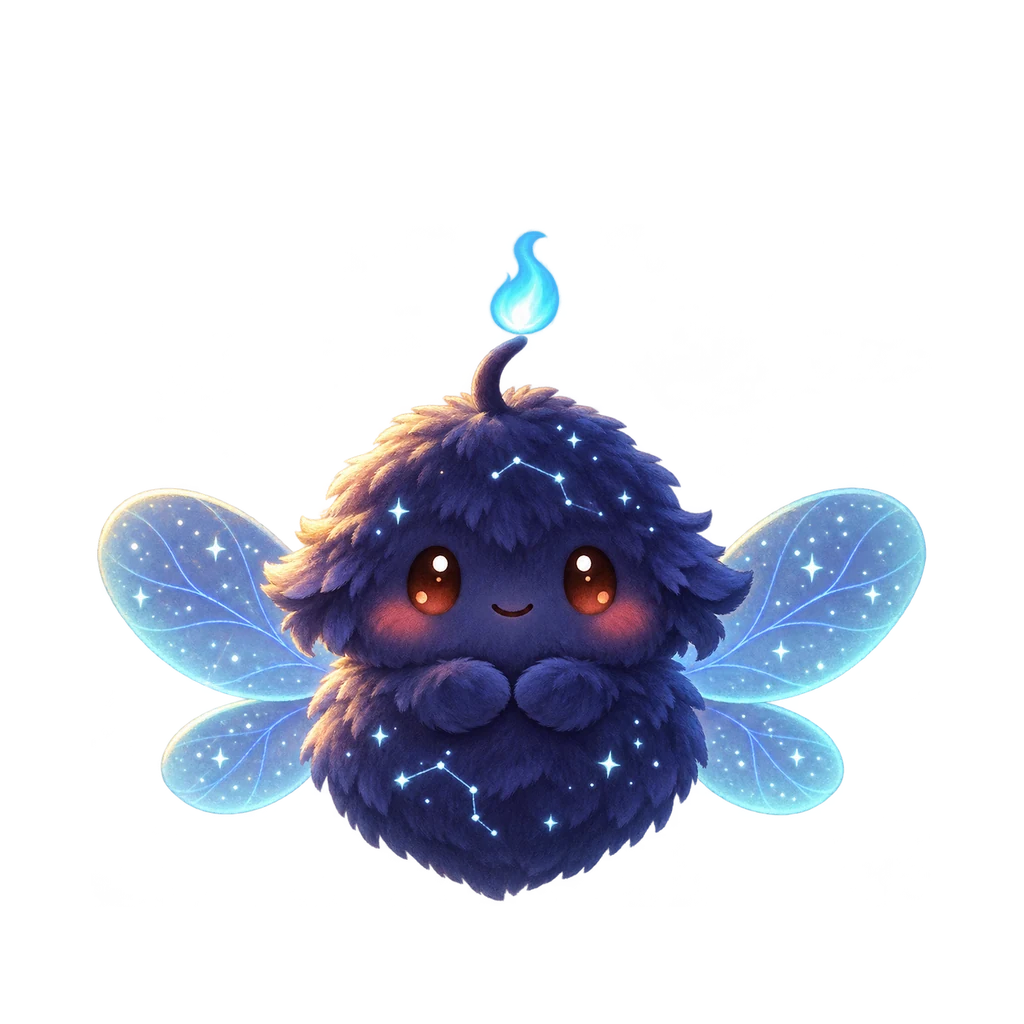
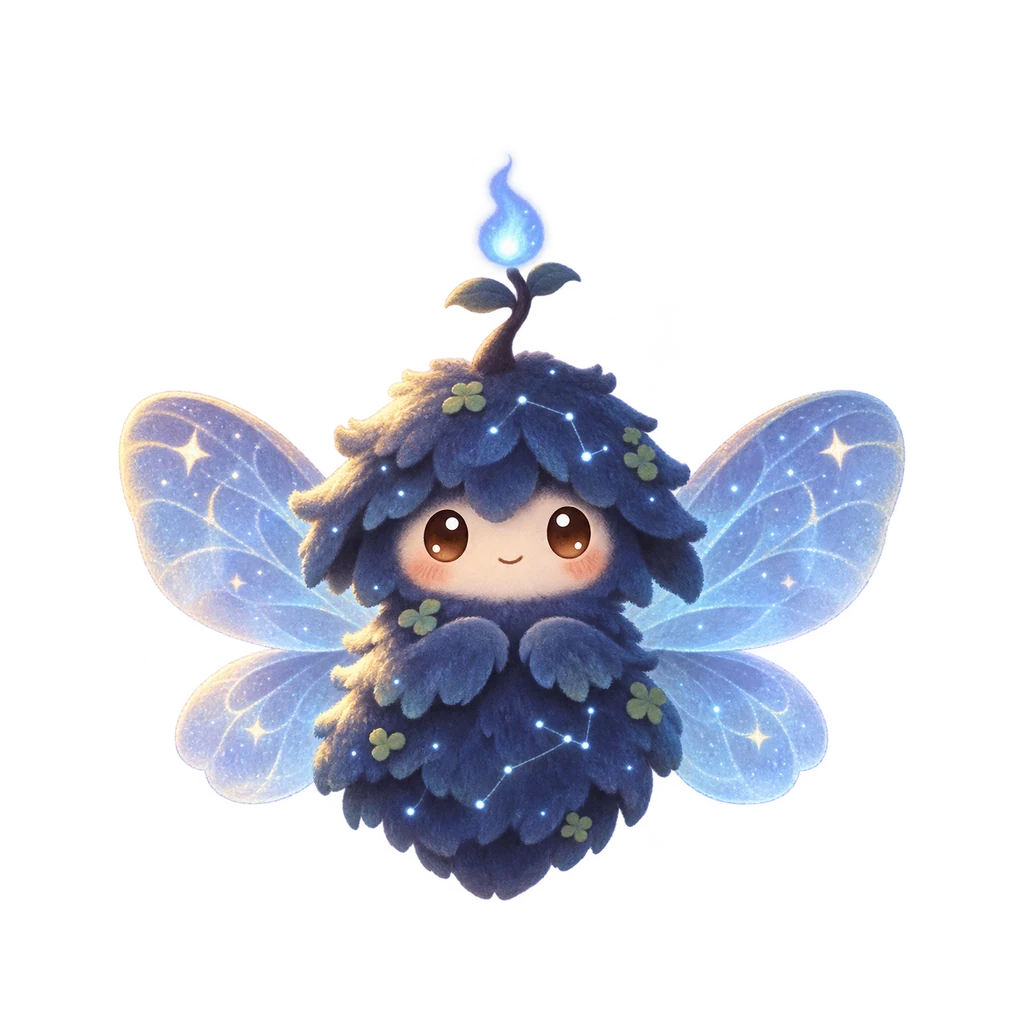
Use the redrawn Starwick idle and re-enable its blink
The new idle matches the rest of the Starwick set and lines up with its
blink, so every form blinks again.

Claude-Session: https://claude.ai/code/session_01EaXrjpdRA865mRVtS6vp6n

Changed region(s): [[0.0938, 0.1562, 0.9062, 0.9062]]

diff --git a/src/assets/manifest.ts b/src/assets/manifest.ts
@@ -113,7 +113,7 @@ export const FORM_META: Record<
   lanternmoss: { scale: 1.05, anchorY: 900, hover: true },
   burrowbun: { scale: 1.0, anchorY: 900 },
   mirefuzz: { scale: 0.98, anchorY: 900 },
-  starwick: { scale: 1.05, anchorY: 900, hover: true, blinkArt: false },
+  starwick: { scale: 1.05, anchorY: 900, hover: true },
 };
 
 const find = (path: string): string | null =>
